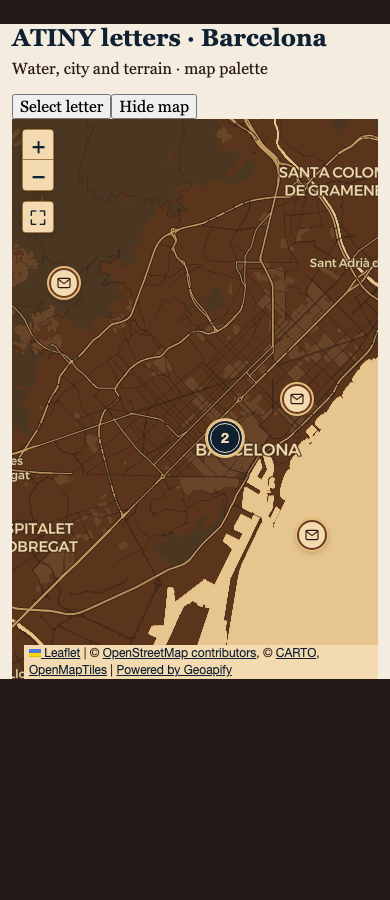
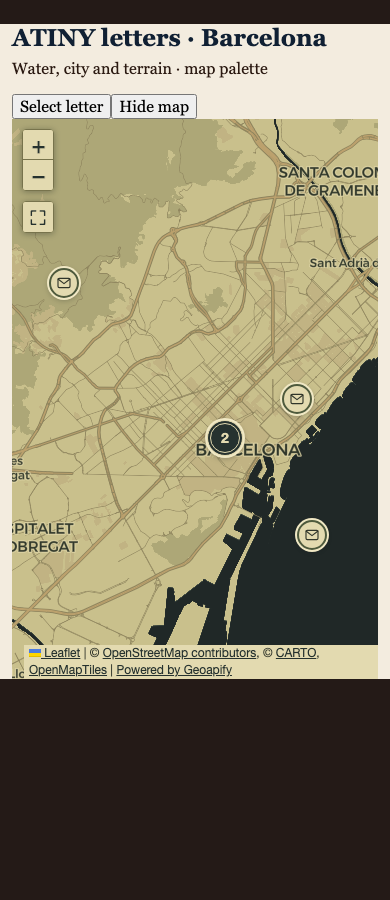
style(map): try charcoal seas and olive parchment atlas palette

diff --git a/src/config/map-style.config.ts b/src/config/map-style.config.ts
@@ -1,28 +1,28 @@
 /**
- * Nautical reference palette: dark sepia land, parchment seas and gold details.
+ * Fantasy atlas palette: charcoal seas, olive parchment land and dark ink.
  * Color palette for the CARTO Voyager vector background. Edit the HEX values and reload the map.
  * Letter and control colors live in src/components/map/map-theme.css.
  * Fallback PNG tiles retain the original CARTO colors.
  */
 export const mapStyle = {
   colors: {
-    land: '#5a351c',
-    water: '#d8af73',
-    waterShore: '#e6c58f',
-    vegetation: '#4b3721',
-    residential: '#684529',
-    buildings: '#795333',
-    buildingOutline: '#422916',
-    roads: '#ac814c',
-    majorRoads: '#c49a60',
-    roadOutline: '#382216',
-    paths: '#8b6a42',
-    railways: '#ae8b59',
-    boundaries: '#a07841',
-    labels: '#f3dbab',
-    waterLabels: '#5b3b20',
-    labelHalo: '#402818',
-    waterLabelHalo: '#e4c28a',
+    land: '#c9c08c',
+    water: '#202827',
+    waterShore: '#36413a',
+    vegetation: '#ada777',
+    residential: '#c1b383',
+    buildings: '#afa071',
+    buildingOutline: '#7c7553',
+    roads: '#dbd0a0',
+    majorRoads: '#bca16d',
+    roadOutline: '#8e845d',
+    paths: '#8a825d',
+    railways: '#6e7355',
+    boundaries: '#747453',
+    labels: '#30372a',
+    waterLabels: '#d5d0af',
+    labelHalo: '#e1d7a8',
+    waterLabelHalo: '#202827',
   },
 }
 

diff --git a/src/components/map/map-theme.css b/src/components/map/map-theme.css
@@ -1,21 +1,21 @@
 /* Map interface colors. Edit cartographic colors in src/config/map-style.config.ts. */
 :root {
-  --map-paper: #f4dab0;
-  --map-paper-hover: #e8c78f;
-  --map-ink: #2b1a12;
-  --map-muted: #684728;
-  --map-brown: #6a3b20;
-  --map-navy: #102033;
-  --map-navy-hover: #1c354c;
-  --map-on-navy: #f4dab0;
-  --map-border: #a37b42;
-  --map-focus: #102033;
-  --map-halo: #e5bd7a;
-  --map-shadow: #241a1759;
-  --map-disabled: #746042;
-  --map-canvas: #d8af73;
+  --map-paper: #e3dab0;
+  --map-paper-hover: #d4c797;
+  --map-ink: #30352a;
+  --map-muted: #575e44;
+  --map-brown: #4e5a3d;
+  --map-navy: #26322f;
+  --map-navy-hover: #394a40;
+  --map-on-navy: #e3dab0;
+  --map-border: #77734c;
+  --map-focus: #26322f;
+  --map-halo: #f0e8c4;
+  --map-shadow: #101a1959;
+  --map-disabled: #6b6e54;
+  --map-canvas: #202827;
   --map-grain-opacity: .12;
-  --map-aged-edge: #70502533;
+  --map-aged-edge: #37433233;
 }
 
 .leaflet-container { background: var(--map-canvas); }

diff --git a/tests/unit/components/map/vector-map-style.test.ts b/tests/unit/components/map/vector-map-style.test.ts
@@ -6,7 +6,9 @@ describe('editable vector cartography', () => {
   it('changes each feature independently without changing road geometry or zoom rules', () => {
     const style = createVectorMapStyle({ ...mapStyle.colors, water: '#123456', roads: '#abcdef', labels: '#654321' })
     const layer = (id: string) => style.layers.find(layer => layer.id === id)
-    expect(layer('water')?.paint).toMatchObject({ 'fill-color': '#123456' })
+    // CARTO's translated water_shadow is painted last and covers the ocean.
+    expect(layer('water_shadow')?.paint).toMatchObject({ 'fill-color': '#123456' })
+    expect(layer('water')?.paint).toMatchObject({ 'fill-color': mapStyle.colors.waterShore })
     expect(layer('waterway')?.paint).toMatchObject({ 'line-color': '#123456' })
     expect(layer('road_minor_fill')?.paint).toMatchObject({ 'line-color': '#abcdef', 'line-width': expect.any(Object) })
     expect(layer('place_city_r5')?.paint).toMatchObject({ 'text-color': '#654321' })

diff --git a/src/components/map/vector-map-style.ts b/src/components/map/vector-map-style.ts
@@ -9,7 +9,8 @@ export function createVectorMapStyle(colors: MapColors = mapStyle.colors): Style
     const source = 'source-layer' in layer ? layer['source-layer'] : undefined
     if (layer.type === 'background') layer.paint = { ...layer.paint, 'background-color': colors.land }
     if (layer.type === 'fill') {
-      const color = source === 'water' ? (layer.id === 'water_shadow' ? colors.waterShore : colors.water)
+      // Voyager paints the translated water_shadow last; it must carry the main sea color.
+      const color = source === 'water' ? (layer.id === 'water_shadow' ? colors.water : colors.waterShore)
         : source === 'building' ? colors.buildings
           : layer.id === 'landuse_residential' ? colors.residential : colors.vegetation
       layer.paint = { ...layer.paint, 'fill-color': color }

diff --git a/docs/map-palette.md b/docs/map-palette.md
@@ -9,8 +9,8 @@ Edit **`src/config/map-style.config.ts`** and reload the map. The same configura
 ```ts
 export const mapStyle = {
   colors: {
-    land: '#5a351c',
-    water: '#d8af73',
+    land: '#c9c08c',
+    water: '#202827',
     // Other feature colors are listed in the configuration file.
   },
 }
@@ -18,38 +18,38 @@ export const mapStyle = {
 
 | Setting | Default | Use |
 | --- | --- | --- |
-| `land` | `#5a351c` | Dark sepia continents and country boundary halo |
-| `water` | `#d8af73` | Light parchment seas, lakes and rivers |
-| `waterShore` | `#e6c58f` | Water edge/shadow |
-| `vegetation` | `#4b3721` | Parks, woodland and natural land cover |
-| `residential` | `#684529` | Residential areas |
-| `buildings` | `#795333` | Buildings and roofs |
-| `buildingOutline` | `#422916` | Building outlines |
-| `roads` | `#ac814c` | Minor roads and airport surfaces |
-| `majorRoads` | `#c49a60` | Primary/secondary roads, trunks and motorways |
-| `roadOutline` | `#382216` | Road casings, including bridges and tunnels |
-| `paths` | `#8b6a42` | Paths |
-| `railways` | `#ae8b59` | Rail lines; dashes use `roads` |
-| `boundaries` | `#a07841` | Country and administrative boundaries |
-| `labels` | `#f3dbab` | Place, road, building-number and point-of-interest text |
-| `waterLabels` | `#5b3b20` | Water names |
-| `labelHalo` | `#402818` | Dark halo for light labels on land |
-| `waterLabelHalo` | `#e4c28a` | Light halo for dark water names |
+| `land` | `#c9c08c` | Olive parchment continents and country boundary halo |
+| `water` | `#202827` | Charcoal seas, lakes and rivers |
+| `waterShore` | `#36413a` | Water edge/shadow |
+| `vegetation` | `#ada777` | Parks, woodland and natural land cover |
+| `residential` | `#c1b383` | Residential areas |
+| `buildings` | `#afa071` | Buildings and roofs |
+| `buildingOutline` | `#7c7553` | Building outlines |
+| `roads` | `#dbd0a0` | Minor roads and airport surfaces |
+| `majorRoads` | `#bca16d` | Primary/secondary roads, trunks and motorways |
+| `roadOutline` | `#8e845d` | Road casings, including bridges and tunnels |
+| `paths` | `#8a825d` | Paths |
+| `railways` | `#6e7355` | Rail lines; dashes use `roads` |
+| `boundaries` | `#747453` | Country and administrative boundaries |
+| `labels` | `#30372a` | Place, road, building-number and point-of-interest text |
+| `waterLabels` | `#d5d0af` | Water names |
+| `labelHalo` | `#e1d7a8` | Light halo for dark labels on land |
+| `waterLabelHalo` | `#202827` | Dark halo for light water names |
 
-The configuration changes paint colors; CARTO's existing placement, geometry, widths, opacity and zoom-dependent visibility remain intact. Changes to those advanced properties belong in the style builder or the pinned style, rather than the color palette.
+The `water` setting colors the dominant ocean fill, including CARTO's translated overlay; `waterShore` colors its narrow exposed shoreline. The configuration changes paint colors; CARTO's existing placement, geometry, widths, opacity and zoom-dependent visibility remain intact. Changes to those advanced properties belong in the style builder or the pinned style, rather than the color palette.
 
 ## Letters and controls
 
-Edit **`src/components/map/map-theme.css`** for all `--map-*` interface tokens. Warm parchment markers have a sepia border and a pale paper halo. Deep navy clusters have a double border and a numeric count. Selected letters have a double border plus an outer ring; keyboard focus adds a dashed outline. Selection is also exposed as `aria-pressed`.
+Edit **`src/components/map/map-theme.css`** for all `--map-*` interface tokens. Parchment markers have an olive-ink border and a pale paper halo. Charcoal clusters have a double border and a numeric count. Selected letters have a double border plus an outer ring; keyboard focus adds a dashed outline. Selection is also exposed as `aria-pressed`.
 
 | Content | Foreground / background | Contrast |
 | --- | --- | --- |
-| Marker, popup and attribution text | `#2b1a12` / `#f4dab0` | 12.31:1 |
-| Cluster and selected letter | `#f4dab0` / `#102033` | 12.14:1 |
-| Zoom/fullscreen controls | `#102033` / `#f4dab0` | 12.14:1 |
-| Secondary interface text | `#684728` / `#f4dab0` | 6.15:1 |
-| Cartographic label / halo | `#f3dbab` / `#402818` | 10.12:1 |
-| Water label / halo | `#5b3b20` / `#e4c28a` | 5.92:1 |
+| Marker, popup and attribution text | `#30352a` / `#e3dab0` | 8.94:1 |
+| Cluster and selected letter | `#e3dab0` / `#26322f` | 9.45:1 |
+| Zoom/fullscreen controls | `#26322f` / `#e3dab0` | 9.45:1 |
+| Secondary interface text | `#575e44` / `#e3dab0` | 4.83:1 |
+| Cartographic label / halo | `#30372a` / `#e1d7a8` | 8.49:1 |
+| Water label / halo | `#d5d0af` / `#202827` | 9.66:1 |
 
 These ratios apply to the defaults. Recheck contrast after editing colors. A subtle, static SVG grain and edge shading age only the vector background. Set `--map-grain-opacity` to `0` to disable the effect; `--map-aged-edge` adjusts its edge tint. Markers, controls and popups sit in separate panes, so their contrast remains unchanged by the texture.
 
@@ -74,12 +74,14 @@ The palette tests wait for a zoom to finish before unmounting. Leaflet 1.9.4 has
 ### Verification record (2026-10-17)
 
 - `pnpm build`, `pnpm typecheck`, `pnpm lint`: passed.
-- `pnpm test`: 51 BDD scenarios and 893 unit tests passed after the reference palette refinement. An earlier full unit run hit a timing failure in `language-switcher.test.tsx` (`Saving language…` versus `Language saved.`); its isolated rerun passed. This unrelated test was not changed.
+- `pnpm test`: 51 BDD scenarios and 893 unit tests passed after the dark-sea atlas refinement. An earlier full unit run hit a timing failure in `language-switcher.test.tsx` (`Saving language…` versus `Language saved.`); its isolated rerun passed. This unrelated test was not changed.
 - Integration: 163 passed. Contract: 61 passed. The existing `20261014143000_geographic_locations.sql` migration had to be applied to the local test database first; this PR adds no schema changes.
 - Palette browser suite: 6 passed, including actual context loss and three viewport widths.
 - Existing map browser suite: 28 passed, 1 intermittent failure in `applies partial cities automatically without moving the filters on /map at 390px` (city URL parameter timing). A previous run hit the desktop variant and a selected-popup timing failure; their focused reruns passed. The failing mobile case then passed three consecutive focused reruns; the unchanged baseline also passed its focused repetitions. The cause of the intermittent failure is not attributed to this PR. Keep this limitation visible when reviewing the experimental PR.
 - Actual production build: vector layer visible, raster layer removed, worker and `/api/map/features`, `/api/map/messages`, `/api/map/filter-options` returned HTTP 200, no page errors.
 
-### Vintage parchment refinement
+### Dark-sea fantasy atlas refinement
 
-The supplied nautical reference guides the palette: dark sepia continents against a light parchment sea, with antique gold details, cream paper and deep navy controls. Residential areas, buildings, roads and vegetation use related brown/olive/gold tones. These HEX values are interpreted from the reference, not exact sampled colors. Land labels use cream ink with a dark halo; water names use dark ink with a separate light halo. A static, low-opacity paper grain is confined to the vector background; letters and controls remain crisp. The existing configuration files still control all colors, and the CSS texture can be disabled independently. Updated comparison, popup and fullscreen captures show this refinement.
+The latest supplied fantasy-map reference guides the active palette: charcoal seas, olive parchment continents and dark ink. Forests use muted olive, cities and buildings use aged ochres, and major roads use desaturated brass. These HEX values are interpreted from the reference, not exact sampled colors. Land labels use dark ink with a light halo; water names use pale ink with a dark halo. A static, low-opacity paper grain remains confined to the vector background, keeping letters and controls crisp.
+
+The earlier nautical palette remains available in Git history and its world capture is retained for comparison. The current configuration files still control the active colors and texture. This palette is applied to real-world cartography.

diff --git a/docs/previews/issue-131/README.md b/docs/previews/issue-131/README.md
@@ -2,7 +2,7 @@
 
 The same production map component is rendered in a deterministic letter harness. CARTO tiles are real; letter data is a local fixture. The before/after, popup and fullscreen captures use Barcelona at latitude 41.395, longitude 2.16 and Leaflet zoom 12. Browser: Chromium. Height: 900 px. The baseline uses commit `628556c`; the updated view uses this branch.
 
-| Viewport | Before: raster and original palette | After: vector and vintage parchment palette |
+| Viewport | Before: raster and original palette | After: vector and dark-sea atlas palette |
 | --- | --- | --- |
 | Desktop, 1440 px | ![Original desktop map](before-1440.png) | ![Updated desktop map](after-1440.png) |
 | Mobile, 390 px | ![Original mobile map](before-390.png) | ![Updated mobile map](after-390.png) |
@@ -19,12 +19,16 @@ The same production map component is rendered in a deterministic letter harness.
 | --- | --- |
 | ![Desktop fullscreen map](fullscreen-1440.png) | ![Mobile fullscreen map](fullscreen-390.png) |
 
-The screenshots show paper markers over dark sepia urban land, the parchment sea and brown/olive natural terrain, navy clusters and a selected letter with a double border and outer ring. Browser assertions separately check dashed keyboard focus and contrast of at least 4.5:1 for normal, selected and hovered letters, clusters, controls, popup and attribution text. The 320 px viewport is tested without adding another near-identical capture.
+The screenshots show paper markers over olive parchment urban land, the charcoal sea and muted olive natural terrain, charcoal clusters and a selected letter with a double border and outer ring. Browser assertions separately check dashed keyboard focus and contrast of at least 4.5:1 for normal, selected and hovered letters, clusters, controls, popup and attribution text. The 320 px viewport is tested without adding another near-identical capture.
 
 See [palette configuration and verification](../../map-palette.md) for editing instructions, default colors, fallback behavior and reproduction commands.
 
-## Nautical reference at world scale
+## Dark-sea atlas at world scale
 
-The supplied reference uses dark continents on a light parchment sea. The world view (1024 px viewport, center 20°N / 0°, zoom 2) below shows the same relationship in the interactive vector map; streets and cities add the derived brown and antique-gold tones at closer zooms.
+The latest reference uses olive parchment continents over a charcoal sea. The world view (1024 px viewport, center 20°N / 0°, zoom 2) shows this relationship in the interactive vector map. The same palette derives dark ink, ochre cities, olive forests and brass roads for closer zooms.
 
-![Nautical reference palette at world scale](reference-world.png)
+![Fantasy atlas palette at world scale](reference-world.png)
+
+The earlier nautical version is retained for comparison:
+
+![Earlier dark-land nautical palette](nautical-world.png)
